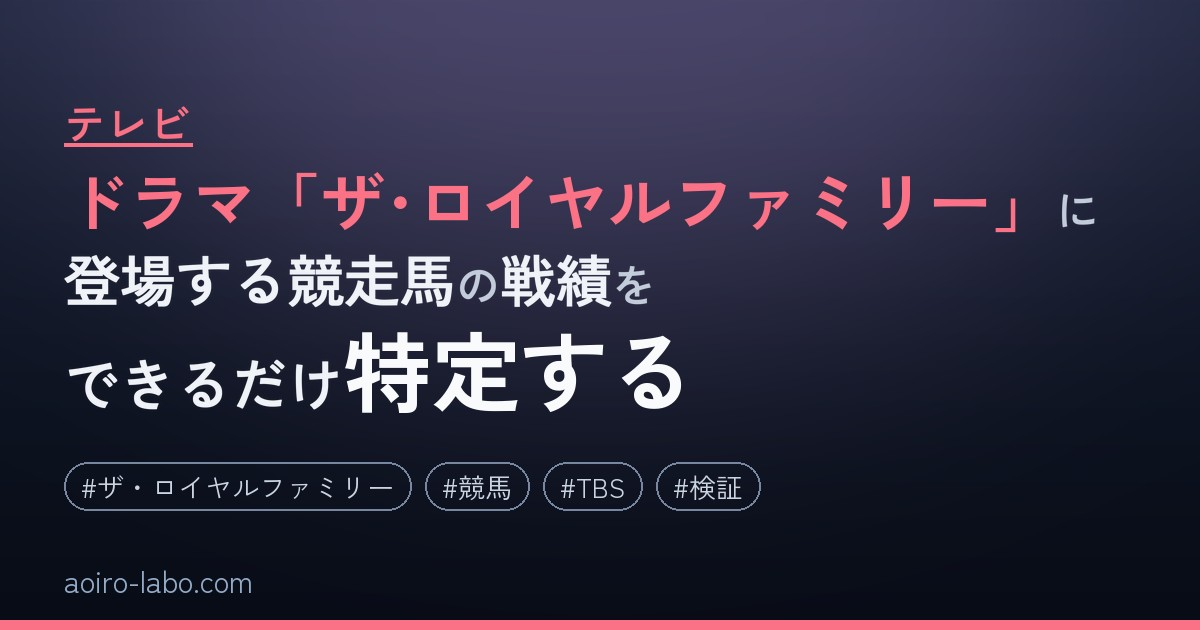
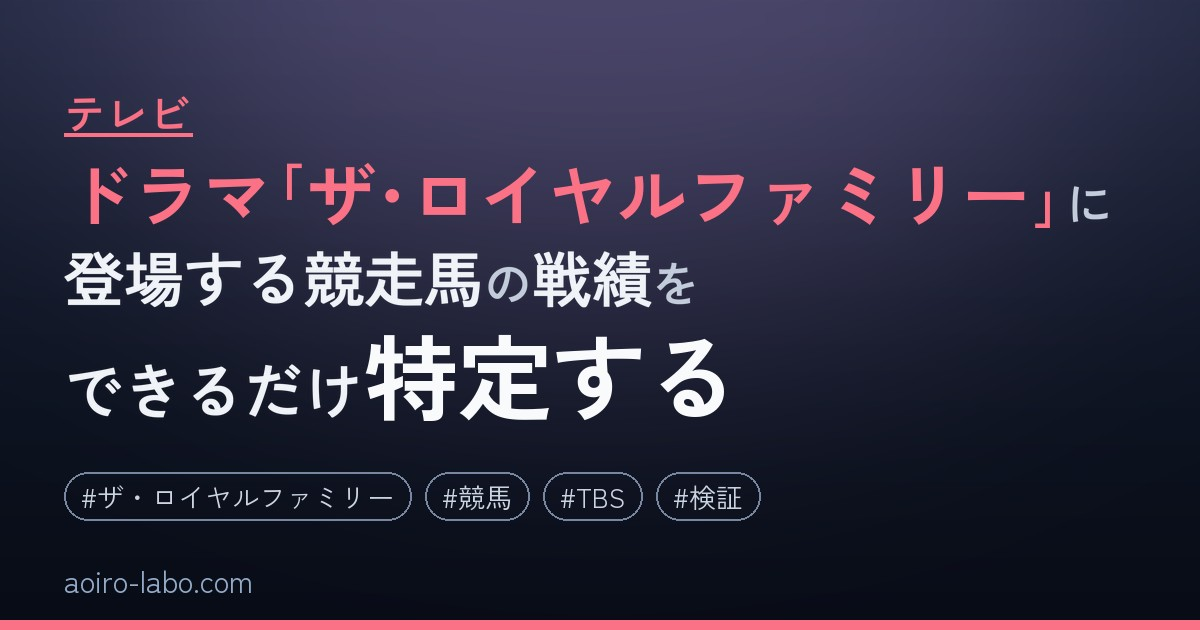
カバー生成：鉤括弧を半角化し、ASOBIのheroをアーカイブに

diff --git a/tools/generate_cover.py b/tools/generate_cover.py
@@ -88,8 +88,8 @@ def tokenize(text):
     atoms=[]; i=0; n=len(text)
     while i<n:
         ch=text[i]
-        if ch=='「':
-            j=text.find('」', i)
+        if ch=='｢':
+            j=text.find('｣', i)
             if j!=-1 and j-i<=14:
                 seg=text[i:j+1]
                 if j+1<n and text[j+1] in 'はがをにへとのもや': seg+=text[j+1]; j+=1
@@ -113,7 +113,7 @@ def tokenize(text):
             c=text[j]; buf+=c; j+=1
             if c in 'はがをにへとのもや、。・：:！？!?': break
             if len(buf)>=12: break
-            if j<n and (text[j] in '「(' or re.match(r'[A-Za-z0-9#@ァ-ヶー]', text[j])): break
+            if j<n and (text[j] in '｢(' or re.match(r'[A-Za-z0-9#@ァ-ヶー]', text[j])): break
         atoms.append(buf); i=j
     merged=[]
     for a in atoms:
@@ -194,7 +194,7 @@ def classify(atoms, emph, hero):
         if len(a)>1 and a[-1] in PARTICLES and not a.endswith('から') and not a.endswith(NOSPLIT_END) and not a.endswith('ごとに'):
             emit(a[:-1],'base'); emit(a[-1],'sub',glue=True); continue
         emit(a,'base')
-    out=[(t,c,(g or (t and t[0] in '」）)'))) for (t,c,g) in out]
+    out=[(t,c,(g or (t and t[0] in '｣）)'))) for (t,c,g) in out]
     return out
 
 def split_emph(atoms, emph, hero):
@@ -208,8 +208,8 @@ def split_emph(atoms, emph, hero):
                 if e in rest: hit=e; break
             if not hit: out.append(rest); break
             pre,_,post = rest.partition(hit)
-            if pre.endswith('「') and post.startswith('」'):
-                pre=pre[:-1]; post=post[1:]; hit='「'+hit+'」'
+            if pre.endswith('｢') and post.startswith('｣'):
+                pre=pre[:-1]; post=post[1:]; hit='｢'+hit+'｣'
             if pre: out.append(pre)
             out.append(hit); rest=post
     return out
@@ -235,7 +235,7 @@ def layout(items, widths, maxw, maxlines, balance_last=False, min_fill=0.0):
                 m=j+1
                 while m<n and items[m][0].strip()=='':
                     m+=1
-                if m<n and (items[m][1]=='sub' or items[m][0].startswith(('、','。','）','」','』','】','・','･'))):
+                if m<n and (items[m][1]=='sub' or items[m][0].startswith(('、','。','）','｣','』','】','・','･'))):
                     continue  # a line must not start with a particle or closing mark
                 slack=maxw-w
                 cost=slack*slack/700.0
@@ -412,7 +412,7 @@ def auto_pick(disp, cat):
             merged.append((t,c,g,[t.strip()]))
     def score(core, last):
         sc=0
-        if core.startswith(('「','『')): sc+=100
+        if core.startswith(('｢','『')): sc+=100
         if '#' in core: sc+=25
         if re.fullmatch(r'[A-Za-z0-9#@ ]+', core): sc+=40
         elif re.fullmatch(r'[ァ-ヶー･]+', core): sc+=35
@@ -440,6 +440,9 @@ def make(path, out, hero_override=None, emphasis_override=None):
     disp = title.replace('（','(').replace('）',')')
     bracket, disp = split_bracket_prefix(disp)
     disp = disp.replace('・', '･')
+    disp = disp.replace('\u300c', '\uff62').replace('\u300d', '\uff63')
+    if hero: hero = hero.replace('\u300c', '\uff62').replace('\u300d', '\uff63')
+    emph = [e.replace('\u300c', '\uff62').replace('\u300d', '\uff63') for e in emph]
     bracket_h = 40+24 if bracket else 0
     acc = accent_for(cat)
     cands = auto_pick(disp, cat)
@@ -453,7 +456,7 @@ def make(path, out, hero_override=None, emphasis_override=None):
         taken = 0
         for (sc,i,c,parts) in sorted(cands, key=lambda x:x[1]):
             if taken>=2: break
-            if c.strip('「」『』')==hero.strip('「」『』'): continue
+            if c.strip('｢｣『』')==hero.strip('｢｣『』'): continue
             emph.extend(parts)
             taken += 1
         if emph: print('  auto accents:', emph)

diff --git a/content/posts/2026-11-26-asobi-channel-archive.md b/content/posts/2026-11-26-asobi-channel-archive.md
@@ -2,7 +2,7 @@
 title: "ASOBI CHANNEL終了と「引き続き視聴可能」だったアーカイブの行き先"
 slug: asobi-channel-archive
 cover: /images/cover-asobi-channel-archive.jpg
-cover_keyword: 行き先
+cover_keyword: アーカイブ
 cover_image: https://images.aoiro-labo.com/blog/asobi-portal-nov.jpg
 aliases:
     - "/posts/asobi-channel終了と引き続き視聴可能だったアーカイブの行き先/"
